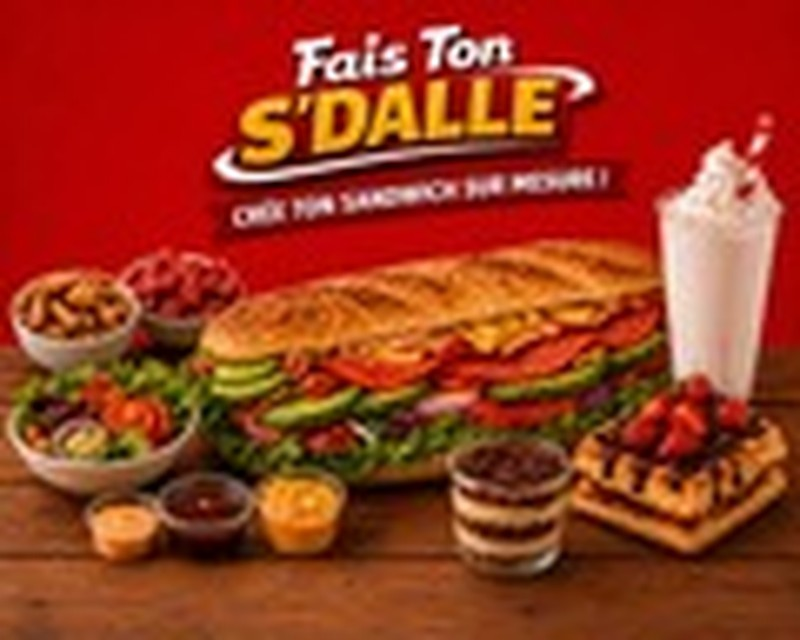
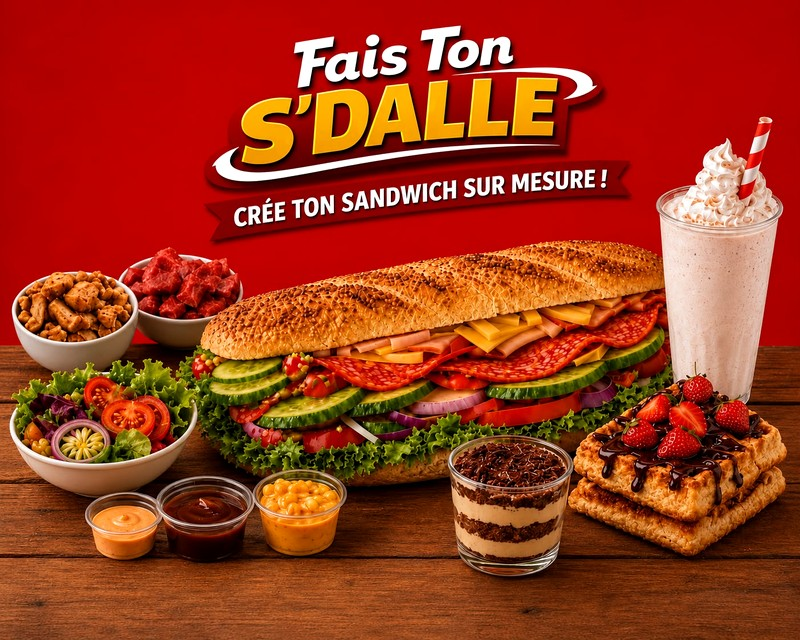
Add files via upload
opzgui

diff --git a/style.css b/style.css
@@ -74,7 +74,7 @@ header{background:var(--glass);-webkit-backdrop-filter:blur(40px) saturate(1.8);
 .lg{display:flex;align-items:center;gap:12px;color:#fff;transition:transform .4s}
 [data-theme="light"] .lg{color:#1a1a1a}
 @media(hover:hover){.lg:hover{transform:scale(1.02)}}
-.lg img{height:48px;width:auto;border-radius:12px;box-shadow:0 4px 25px rgba(0,0,0,.5)}
+.lg img{height:56px;width:auto;border-radius:12px;box-shadow:0 4px 25px rgba(0,0,0,.5)}
 .br{font-family:var(--fh);font-weight:700;font-size:1.1rem;text-transform:uppercase;letter-spacing:3px;line-height:1.1;color:#fff;text-shadow:0 2px 30px rgba(0,0,0,.3)}
 [data-theme="light"] .br{color:#1a1a1a;text-shadow:none}
 .br .sub{display:block;font-family:var(--f);font-weight:400;font-size:.35rem;letter-spacing:4px;text-transform:uppercase;opacity:.3;margin-top:2px;color:#fff}
@@ -453,7 +453,7 @@ body.night-mode .add-btn{box-shadow:0 0 30px rgba(255,68,68,.4)}
 @media(max-width:768px){
   .ham{display:flex}.nv a:not(.sl):not(.ham){display:none}
   .hd{height:60px;padding:0 10px}
-  .lg img{height:32px}.br{font-size:.8rem}.br .sub{display:none}
+  .lg img{height:38px}.br{font-size:.8rem}.br .sub{display:none}
   .ham{min-width:40px;min-height:40px;font-size:1rem}.tg{min-width:40px;min-height:40px;font-size:.7rem}
   .ct{padding:5px 10px;min-height:40px;font-size:.6rem;gap:4px}.cb{width:20px;height:20px;font-size:.45rem}
   .grid{grid-template-columns:1fr 1fr;gap:14px;max-width:100%;margin:0 0 28px}
@@ -483,7 +483,7 @@ body.night-mode .add-btn{box-shadow:0 0 30px rgba(255,68,68,.4)}
 }
 @media(max-width:480px){
   .hd{height:50px;padding:0 6px}
-  .lg img{height:26px}.br{font-size:.62rem;letter-spacing:1.5px}
+  .lg img{height:32px}.br{font-size:.62rem;letter-spacing:1.5px}
   .ham{min-width:34px;min-height:34px;font-size:.85rem}.tg{min-width:34px;min-height:34px;font-size:.65rem}
   .ct{padding:3px 8px;min-height:34px;font-size:.54rem;gap:3px}.cb{width:18px;height:18px;font-size:.4rem}
   .grid{grid-template-columns:1fr;gap:16px;max-width:400px;margin:0 auto 24px}

diff --git a/index.html b/index.html
@@ -147,6 +147,6 @@
 2. Personnalise ton sandwich : 7 viandes (Tenders, émincé poulet, dinde, pastrami, rosette, thon), 8 crudités, 9 sauces, 3 suppléments<br>
 3. Ajoute un Tiramisu maison (Caramel ou Chocolat) ou un Milkshake personnalisable (Snickers, M&Ms, KitKat)<br>
 4. On prépare, tu manges — Livraison 23h-06h ou à emporter</p>
-<p>🌙 <strong>Les soirées, c'est notre spécialité.</strong> Service de livraison de 23h à 6h du matin, 7j/7. Parce que la dalle, ça n'attend pas.</p><p>🥗 <strong>Les Bowls</strong> Envie de fraîcheur ? Compose ton bowl comme ton sandwich : 7 viandes, 8 crudités, 9 sauces, le tout dans un bowl généreux. Bowl seul 10,90€, Bowl + boisson 11,90€.</p><p>134 Allée du Colonel Fabien, 93320 Les Pavillons-sous-Bois | 📞 <a href="tel:[phone redacted]" style="color:var(--p);font-weight:700">[phone redacted]</a></p><div class="ap-gallery"><img src="/images/google-photo-1.jpeg" alt="FAIS TON S'DALLE sandwich" loading="lazy"><img src="/images/google-photo-2.jpeg" alt="FAIS TON S'DALLE préparation" loading="lazy"><img src="/images/google-photo-3.jpeg" alt="FAIS TON S'DALLE devanture" loading="lazy"><img src="/images/google-photo-4.jpeg" alt="FAIS TON S'DALLE intérieur" loading="lazy"><img src="/images/store-front.jpeg" alt="FAIS TON S'DALLE boutique" loading="lazy"><img src="/images/bowl-gourmand.jpg" alt="Bowl gourmand FAIS TON S'DALLE" loading="lazy"></div></div></div></div><div class="pg h" id="con"><div class="w"><div class="inf"><div><h3>Adresse</h3><p>134 Allée du Colonel Fabien<br>93320 Les Pavillons-sous-Bois</p></div><div><h3>Horaires</h3><p>Service 11h30-00h<br>Livraison 23h-06h<br>7j/7 · Même les jours fériés</p></div><div><h3>Téléphone</h3><p><a href="tel:[phone redacted]" style="color:var(--p);font-weight:800">[phone redacted]</a></p></div><div><h3>Email</h3><p><a href="mailto:[email redacted]" style="color:var(--p);font-weight:800">[email redacted]</a></p></div></div><div style="display:flex;gap:12px;margin:16px 0;flex-wrap:wrap"><a class="ub" style="background:#25D366" id="wa-btn">WhatsApp</a><a href="https://share.google/ohtsRFBl72o22DEi4" target="_blank" class="ub" style="background:var(--p)">Avis Google</a></div><div class="rv" id="rv2"><div class="rv-card"><div class="rv-stars">★★★★★</div><div class="rv-txt">"Les meilleurs sandwichs du 93 ! Toujours frais et bien garnis."</div><div class="rv-auth">Sophie M.</div></div><div class="rv-card"><div class="rv-stars">★★★★★</div><div class="rv-txt">"Service rapide même tard, les tenders sont incroyables !"</div><div class="rv-auth">Karim L.</div></div><div class="rv-card"><div class="rv-stars">★★★★★</div><div class="rv-txt">"Enfin un vrai fast-food halal de qualité près de chez moi."</div><div class="rv-auth">Fatima Z.</div></div><div class="rv-card"><div class="rv-stars">★★★★★</div><div class="rv-txt">"Le milkshake Snickers est une tuerie !"</div><div class="rv-auth">Alex D.</div></div></div><div class="nl"><h3>Newsletter</h3><form id="nl2"><input type="email" placeholder="[email redacted]" required><button type="submit">→</button></form></div></div></div><div class="mod" id="mod"><div class="mod-bx"><div class="mod-hd"><h2>Personnalise</h2><button class="mod-cl">✕</button></div><div class="mod-bd" id="mb"></div><div class="mod-inst"><textarea id="mi" class="mod-ta" placeholder="Ex: pas d'oignons..." rows="2"></textarea></div><div class="mod-ft"><div class="mod-pr" id="mp"></div><button class="mod-ok">Ajouter</button></div></div></div><div class="mod" id="mod-t"><div class="mod-bx"><div class="mod-hd"><h2>Tiramisu</h2><button class="mod-cl">✕</button></div><div class="mod-bd" id="mb-t"></div><div class="mod-ft"><div class="mod-pr">3,00€</div><button class="mod-ok">Ajouter</button></div></div></div><div class="mod" id="mod-m"><div class="mod-bx"><div class="mod-hd"><h2>Milkshake</h2><button class="mod-cl">✕</button></div><div class="mod-bd" id="mb-m"></div><div class="mod-inst"><textarea id="mi-m" class="mod-ta" placeholder="Extra" rows="2"></textarea></div><div class="mod-ft"><div class="mod-pr" id="mp-m">5,00€</div><button class="mod-ok">Ajouter</button></div></div></div><div class="mod" id="mod-pick"><div class="mod-bx"><div class="mod-hd"><h2>Choisis tes extras</h2><button class="mod-cl">✕</button></div><div class="mod-bd" id="mb-pick"></div></div></div><div class="mod" id="mod-joker"><div class="joker-card"><div class="joker-icon" id="joker-icon">🃏</div><h2 id="joker-title">La Roue de la Fortune</h2><div class="joker-desc" id="joker-desc">Le destin tourne en ta faveur...</div><div class="joker-badge discount" id="joker-badge">-15%</div><button class="joker-close" onclick="document.getElementById('mod-joker').classList.remove('on')">Réclamer</button></div></div>
+<p>🌙 <strong>Les soirées, c'est notre spécialité.</strong> Service de livraison de 23h à 6h du matin, 7j/7. Parce que la dalle, ça n'attend pas.</p><p>🥗 <strong>Les Bowls</strong> Envie de fraîcheur ? Compose ton bowl comme ton sandwich : 7 viandes, 8 crudités, 9 sauces, le tout dans un bowl généreux. Bowl seul 10,90€, Bowl + boisson 11,90€.</p><p>134 Allée du Colonel Fabien, 93320 Les Pavillons-sous-Bois | 📞 <a href="tel:[phone redacted]" style="color:var(--p);font-weight:700">[phone redacted]</a></p><div class="ap-gallery"><img src="/images/google-photo-1.jpeg" alt="FAIS TON S'DALLE sandwich" loading="lazy"><img src="/images/google-photo-2.jpeg" alt="FAIS TON S'DALLE préparation" loading="lazy"><img src="/images/google-photo-3.jpeg" alt="FAIS TON S'DALLE devanture" loading="lazy"><img src="/images/google-photo-4.jpeg" alt="FAIS TON S'DALLE intérieur" loading="lazy"><img src="/images/store-front.jpeg" alt="FAIS TON S'DALLE boutique" loading="lazy"><img src="/images/bowl-gourmand.jpg" alt="Bowl gourmand FAIS TON S'DALLE" loading="lazy"><img src="/images/info-photo-1.jpeg" alt="FAIS TON S'DALLE" loading="lazy"></div></div></div></div><div class="pg h" id="con"><div class="w"><div class="inf"><div><h3>Adresse</h3><p>134 Allée du Colonel Fabien<br>93320 Les Pavillons-sous-Bois</p></div><div><h3>Horaires</h3><p>Service 11h30-00h<br>Livraison 23h-06h<br>7j/7 · Même les jours fériés</p></div><div><h3>Téléphone</h3><p><a href="tel:[phone redacted]" style="color:var(--p);font-weight:800">[phone redacted]</a></p></div><div><h3>Email</h3><p><a href="mailto:[email redacted]" style="color:var(--p);font-weight:800">[email redacted]</a></p></div></div><div style="display:flex;gap:12px;margin:16px 0;flex-wrap:wrap"><a class="ub" style="background:#25D366" id="wa-btn">WhatsApp</a><a href="https://share.google/ohtsRFBl72o22DEi4" target="_blank" class="ub" style="background:var(--p)">Avis Google</a></div><div class="rv" id="rv2"><div class="rv-card"><div class="rv-stars">★★★★★</div><div class="rv-txt">"Les meilleurs sandwichs du 93 ! Toujours frais et bien garnis."</div><div class="rv-auth">Sophie M.</div></div><div class="rv-card"><div class="rv-stars">★★★★★</div><div class="rv-txt">"Service rapide même tard, les tenders sont incroyables !"</div><div class="rv-auth">Karim L.</div></div><div class="rv-card"><div class="rv-stars">★★★★★</div><div class="rv-txt">"Enfin un vrai fast-food halal de qualité près de chez moi."</div><div class="rv-auth">Fatima Z.</div></div><div class="rv-card"><div class="rv-stars">★★★★★</div><div class="rv-txt">"Le milkshake Snickers est une tuerie !"</div><div class="rv-auth">Alex D.</div></div></div><div class="nl"><h3>Newsletter</h3><form id="nl2"><input type="email" placeholder="[email redacted]" required><button type="submit">→</button></form></div></div></div><div class="mod" id="mod"><div class="mod-bx"><div class="mod-hd"><h2>Personnalise</h2><button class="mod-cl">✕</button></div><div class="mod-bd" id="mb"></div><div class="mod-inst"><textarea id="mi" class="mod-ta" placeholder="Ex: pas d'oignons..." rows="2"></textarea></div><div class="mod-ft"><div class="mod-pr" id="mp"></div><button class="mod-ok">Ajouter</button></div></div></div><div class="mod" id="mod-t"><div class="mod-bx"><div class="mod-hd"><h2>Tiramisu</h2><button class="mod-cl">✕</button></div><div class="mod-bd" id="mb-t"></div><div class="mod-ft"><div class="mod-pr">3,00€</div><button class="mod-ok">Ajouter</button></div></div></div><div class="mod" id="mod-m"><div class="mod-bx"><div class="mod-hd"><h2>Milkshake</h2><button class="mod-cl">✕</button></div><div class="mod-bd" id="mb-m"></div><div class="mod-inst"><textarea id="mi-m" class="mod-ta" placeholder="Extra" rows="2"></textarea></div><div class="mod-ft"><div class="mod-pr" id="mp-m">5,00€</div><button class="mod-ok">Ajouter</button></div></div></div><div class="mod" id="mod-pick"><div class="mod-bx"><div class="mod-hd"><h2>Choisis tes extras</h2><button class="mod-cl">✕</button></div><div class="mod-bd" id="mb-pick"></div></div></div><div class="mod" id="mod-joker"><div class="joker-card"><div class="joker-icon" id="joker-icon">🃏</div><h2 id="joker-title">La Roue de la Fortune</h2><div class="joker-desc" id="joker-desc">Le destin tourne en ta faveur...</div><div class="joker-badge discount" id="joker-badge">-15%</div><button class="joker-close" onclick="document.getElementById('mod-joker').classList.remove('on')">Réclamer</button></div></div>
 <div class="co" id="co"></div><div class="cp" id="cp"><div class="cp-hd"><div><h3>🛒 Panier</h3></div><button class="cp-x">✕</button></div><div class="cp-mode-inline"><div class="cmd-toggle"><button class="on" id="cp-mode-livraison">🚚 Livraison</button><button id="cp-mode-emporter">🥡 À emporter</button></div></div><div id="cp-address" style="display:none;padding:12px 20px;border-bottom:1px solid var(--b);animation:fadeIn .3s ease"><input type="text" id="cp-addr-input" placeholder="📍 134 Allée du Colonel Fabien, 93320 Les Pavillons-sous-Bois" class="mod-ta" style="width:100%;font-size:.68rem"></div><div class="cp-its" id="ci"><div class="cp-em">Panier vide</div></div><div class="cp-ft"><div class="cp-tr"><span>Sous-total</span><span class="cp-st">0,00€</span></div><div class="cp-tr df" style="display:none;font-size:.68rem;color:var(--t2)"><span>🚚 Livraison</span><span class="df-val">2,50€</span></div><div class="cp-tr" style="border-top:1px solid var(--b);padding-top:6px;margin-top:2px"><span>Total</span><span class="cp-ta" id="ct-total">0,00€</span></div><div id="cp-pay-inline" style="margin-top:8px"><input type="text" id="pay-name-inline" placeholder="👤 Votre nom" class="mod-ta" style="width:100%;margin-bottom:8px;font-size:.7rem"><button class="cp-ck" id="cp-pay-btn">💳 Payer <span id="c2">0,00€</span></button></div></div></div><div class="toast" id="toast"><span id="tm"></span></div><div class="ni" id="ni"><span>🌙</span><span>Livraison<br><strong>23h-06h</strong></span></div><button id="top-btn">↑</button><footer><div class="fi"><div><h4>FAIS TON S'DALLE</h4><p>Sandwichs Halal 7j/7</p></div><div><h4>Contact</h4><p>📞 [phone redacted]</p><p>134 Allée du Colonel Fabien<br>93320 Les Pavillons-sous-Bois</p></div><div><h4>Liens</h4><a href="/">Accueil</a><a href="/#menu">Menu</a><a href="/#ap">Infos</a><a href="/#con">Contact</a></div><div><h4>Infos</h4><a href="/mentions-legales.html">Mentions légales</a><a href="/cgv.html">CGV</a></div></div><div class="fb">© 2026 FAIS TON S'DALLE</div></footer><script src="app.js" defer></script></body>
 </html>